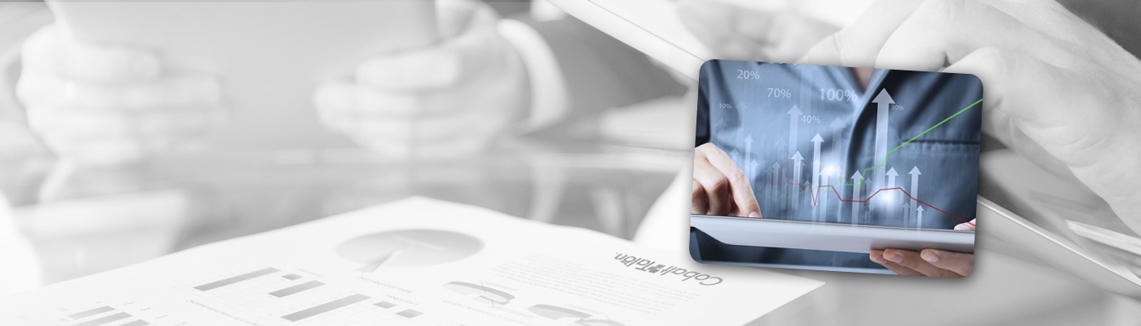
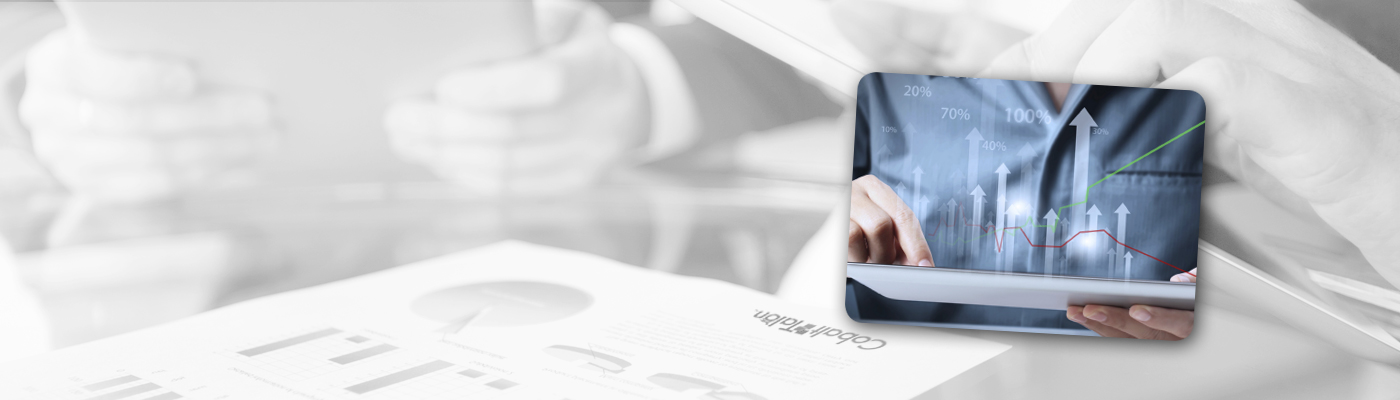
update rotators
lightened background

diff --git a/contents/solutions/overview-strategicsconsulting-bidw.md b/contents/solutions/overview-strategicsconsulting-bidw.md
@@ -7,9 +7,9 @@ Healthcare Data Management and Business Intelligence Consulting Services
 Cobalt Talon  engagements are short, specific, directed engagements designed to provide high level documentation of and recommendations for one or more specific targeted areas. While the specific areas for assessment and recommendations can be tailored to an individual customer’s needs, the following are the most common type of assessments and can be done in combination:
 
 * _Best Practices/Benchmarking_ – Cobalt Talon will compare the customer’s current solution to industry best practices in relevant areas including technology, process, organization, etc., and make recommendations on areas to improve as well as where industry best practices are not relevant and investments are not needed.
-* Business Status Assessment – This assessment captures the current processes and outputs, identifies “pain points,” understands data sources and content, and determines the impact a BI program does, will, or should have on an organization from a resources, technical, and process perspective, i.e., it defines how the business needs are or are not being met, and changes that need to occur to meet them.
-* Opportunity Assessment – Cobalt Talon will work with business leaders to identify where improved BI and analytics would help them achieve their goals. These opportunities could drive new initiatives, or help existing programs provide additional value with minimal investments.
-* Solution Alternatives – If business needs or opportunities have been identified, this effort identifies a range of solutions to satisfy the requirements, and makes recommendations around which solutions provide the most value compared to the current and expected business needs.
+* _Business Status Assessment_ – This assessment captures the current processes and outputs, identifies “pain points,” understands data sources and content, and determines the impact a BI program does, will, or should have on an organization from a resources, technical, and process perspective, i.e., it defines how the business needs are or are not being met, and changes that need to occur to meet them.
+* _Opportunity Assessment_ – Cobalt Talon will work with business leaders to identify where improved BI and analytics would help them achieve their goals. These opportunities could drive new initiatives, or help existing programs provide additional value with minimal investments.
+* _Solution Alternatives_ – If business needs or opportunities have been identified, this effort identifies a range of solutions to satisfy the requirements, and makes recommendations around which solutions provide the most value compared to the current and expected business needs.
 
 ###Strategy and Roadmap
 Cobalt Talon  engagements are designed to provide the customer an actionable plan to achieve their goals in a cost efficient manner. The strategy development effort is a planning initiative that defines the collective vision. CT analyzes the business, operational, and technical opportunities and develops them into a single, comprehensive, multi-phased implementation plan. The process produces tangible recommendations for the functional, data, technical, and organizational components of the solution.
